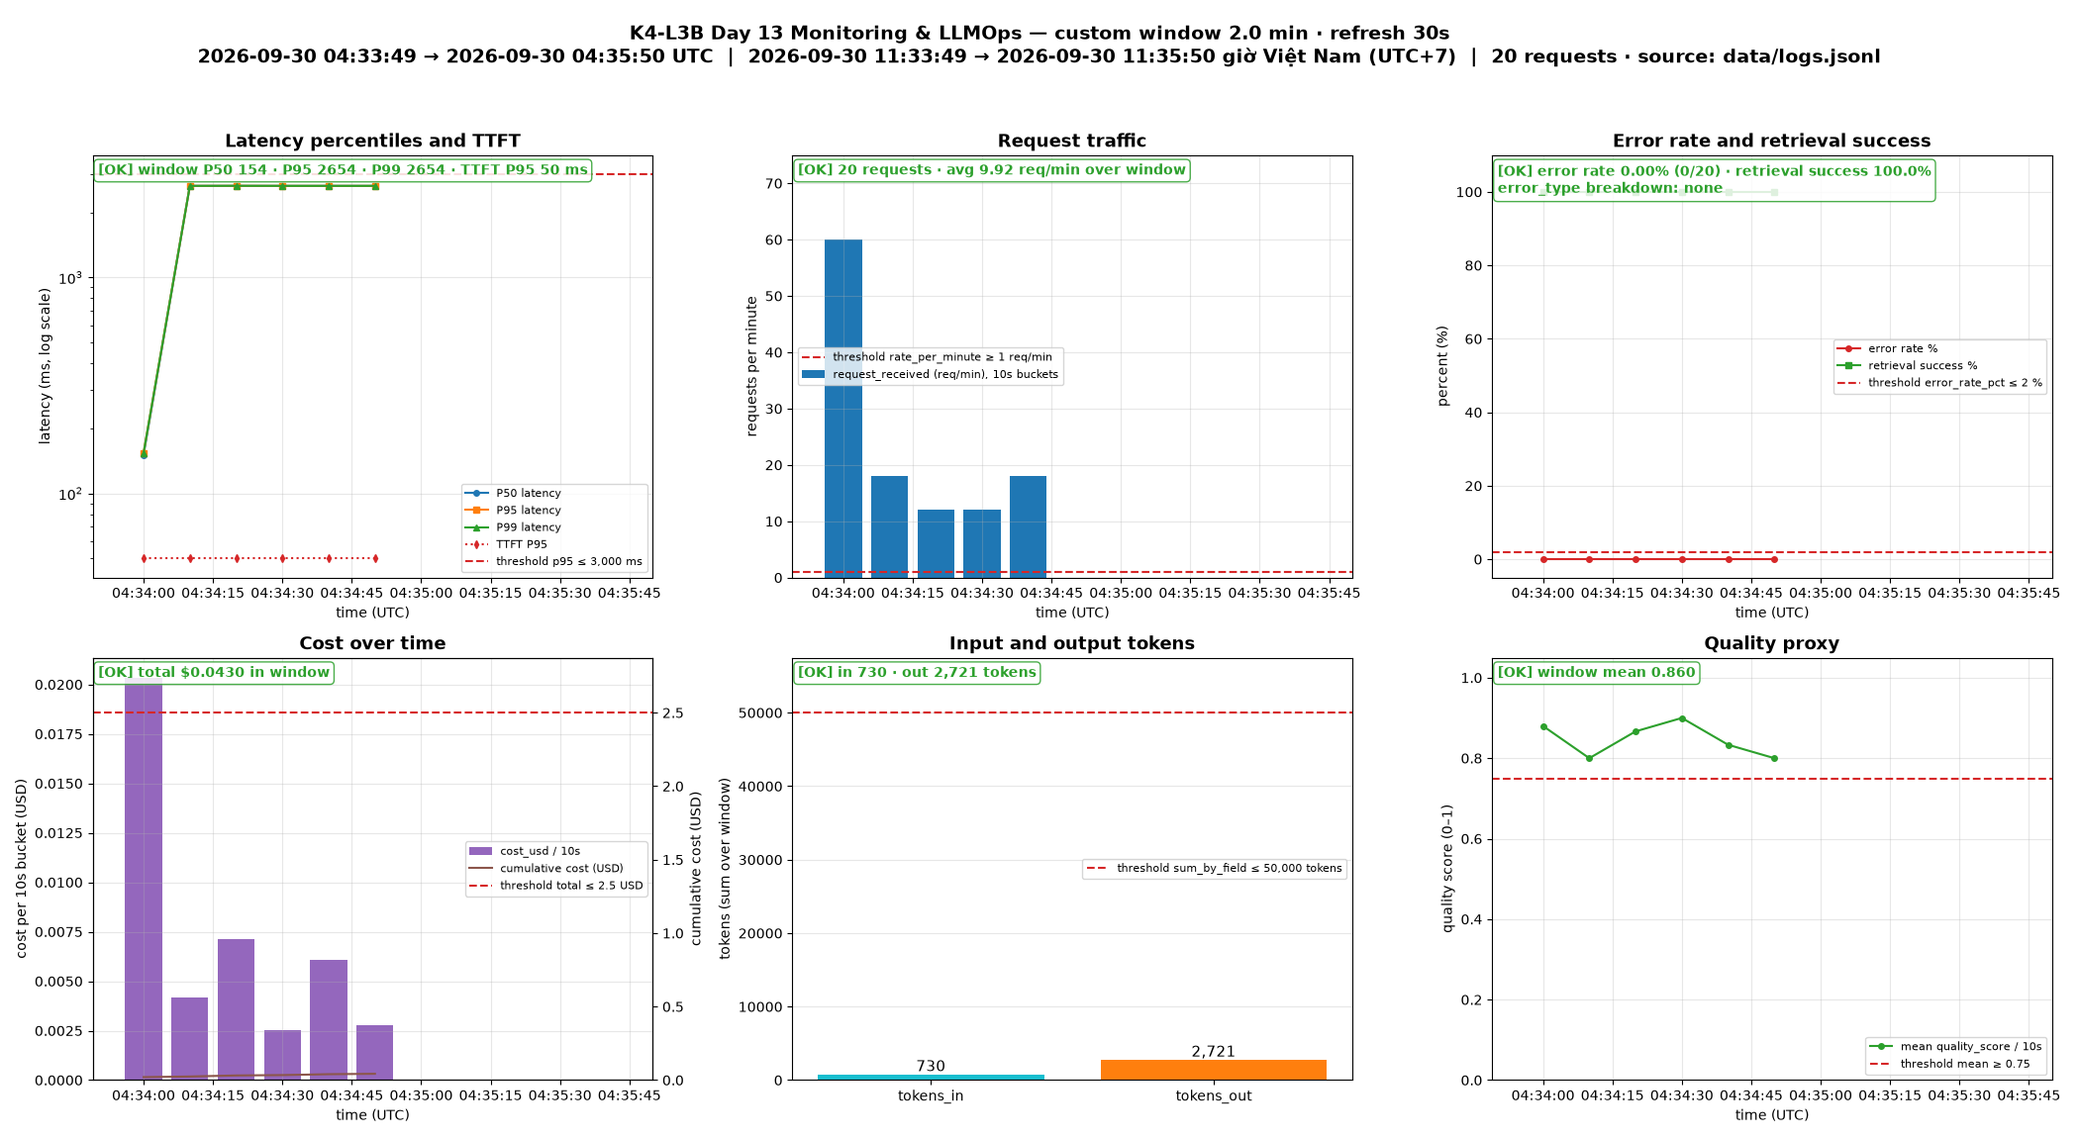
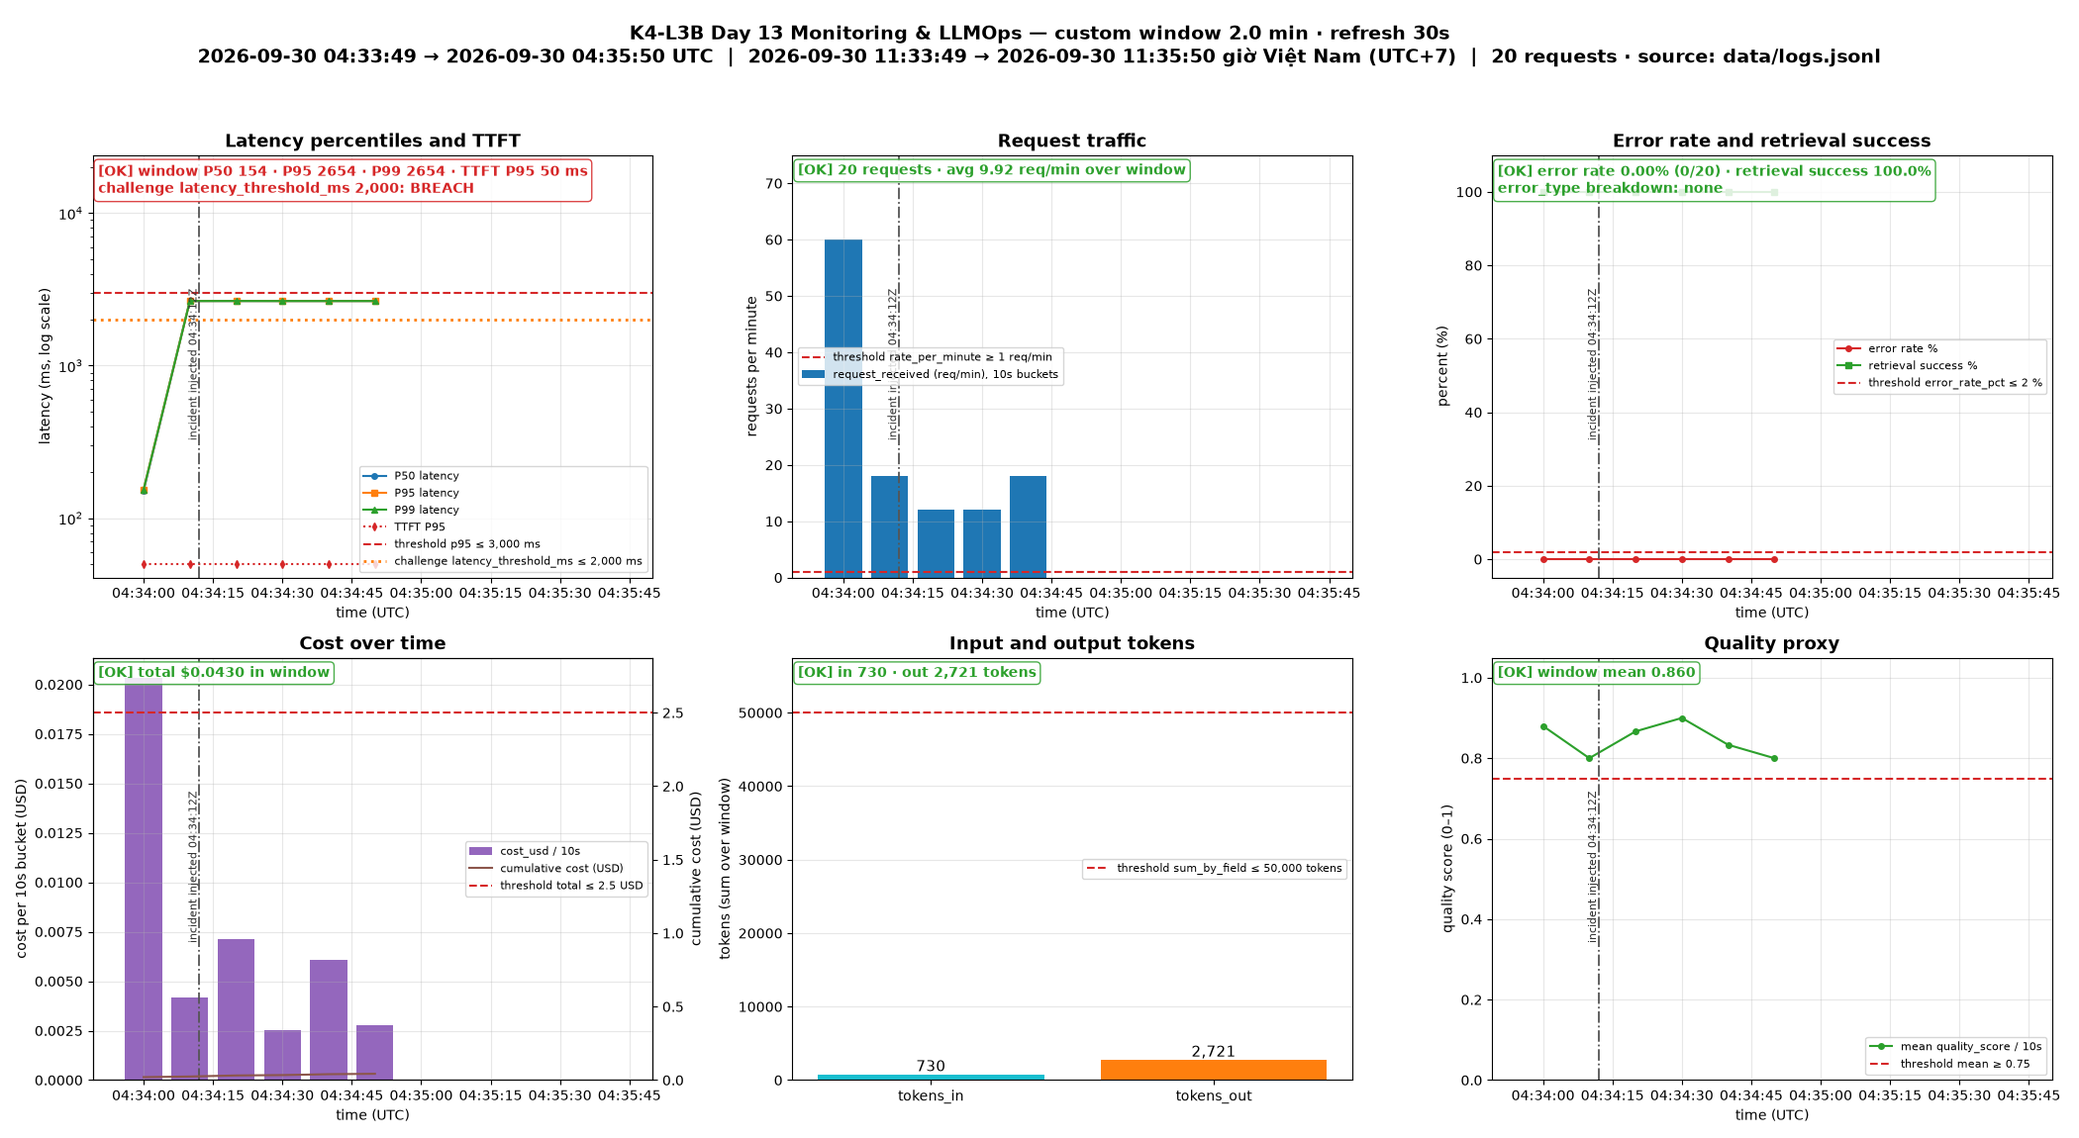
feat(cp3): annotate incident dashboard and amplification root cause

Changed region(s): [[0.031, 0.1217, 0.2786, 0.1826], [0.1548, 0.3957, 0.2786, 0.5174], [0.0619, 0.2435, 0.1857, 0.3957]]

diff --git a/scripts/build_dashboard.py b/scripts/build_dashboard.py
@@ -64,6 +64,24 @@ def filter_range(records: list[dict], start: datetime, end: datetime) -> list[di
     return [r for r in records if start <= r["_ts"] <= end]
 
 
+def parse_marker(value: str) -> tuple[datetime, str]:
+    """TIME=LABEL, e.g. 2026-09-30T04:34:12Z=incident injected."""
+    ts, sep, label = value.partition("=")
+    if not sep or not label:
+        raise argparse.ArgumentTypeError(f"marker must be TIME=LABEL: {value!r}")
+    return parse_cli_time(ts), label
+
+
+def parse_extra_threshold(value: str) -> tuple[str, float, str]:
+    """PANEL=VALUE[:LABEL], e.g. latency=2000:challenge latency_threshold_ms."""
+    panel, sep, rest = value.partition("=")
+    number, _, label = rest.partition(":")
+    try:
+        return panel, float(number), label or "extra threshold"
+    except ValueError as exc:
+        raise argparse.ArgumentTypeError(f"extra threshold must be PANEL=VALUE[:LABEL]: {value!r}") from exc
+
+
 def parse_cli_time(value: str) -> datetime:
     """ISO time with an explicit offset, e.g. 2026-09-30T04:10:00Z or 2026-09-30T11:10:00+07:00."""
     try:
@@ -170,6 +188,8 @@ def load_config(path: Path) -> dict:
 def render(
     cfg: dict, records: list[dict], start: datetime, end: datetime, summary: dict, out: Path,
     window_label: str | None = None,
+    markers: list[tuple[datetime, str]] | None = None,
+    extra_thresholds: list[tuple[str, float, str]] | None = None,
 ) -> None:
     import matplotlib
 
@@ -200,11 +220,21 @@ def render(
         sign = "≤" if th["operator"] == "lte" else "≥"
         ax.axhline(th["value"], color="#d62728", linestyle="--", linewidth=1.5,
                    label=f"threshold {th['aggregation']} {sign} {th['value']:,} {label_unit}")
+        for panel, value, label in extra_thresholds or []:
+            if panel == panel_id:
+                ax.axhline(value, color="#ff7f0e", linestyle=":", linewidth=2,
+                           label=f"{label} {sign} {value:,g} {label_unit}")
 
     def status_text(ax, panel_id: str, text: str) -> None:
         th = panels[panel_id]["threshold"]
         ok = passes(panel_values(summary)[panel_id], th["operator"], th["value"])
         verdict = {True: "OK", False: "BREACH", None: "NO DATA"}[ok]
+        for panel, value, label in extra_thresholds or []:
+            if panel == panel_id:
+                extra_ok = passes(panel_values(summary)[panel_id], th["operator"], value)
+                extra_verdict = {True: "OK", False: "BREACH", None: "NO DATA"}[extra_ok]
+                text += f"\n{label} {value:,g}: {extra_verdict}"
+                ok = ok and extra_ok
         color = {True: "#2ca02c", False: "#d62728", None: "#7f7f7f"}[ok]
         ax.text(0.01, 0.98, f"[{verdict}] {text}", transform=ax.transAxes, va="top", fontsize=10,
                 color=color, fontweight="bold",
@@ -215,6 +245,11 @@ def render(
         ax.xaxis.set_major_formatter(mdates.DateFormatter("%H:%M" + (":%S" if secs < 60 else ""), tz=timezone.utc))
         ax.set_xlabel("time (UTC)")
         ax.grid(alpha=0.3)
+        for when, label in markers or []:
+            if start <= when <= end:
+                ax.axvline(when, color="#555555", linestyle="-.", linewidth=1.3)
+                ax.text(when, 0.5, f" {label} {when:%H:%M:%S}Z", transform=ax.get_xaxis_transform(),
+                        rotation=90, va="center", ha="right", fontsize=8, color="#333333")
 
     # 1. Latency
     ax = axes[0][0]
@@ -225,6 +260,9 @@ def render(
     ax.plot(xs, [percentile([r["ttft_ms"] for r in resp[b]], 95) for b in xs], ":d", ms=4, label="TTFT P95")
     threshold_line(ax, "latency", "ms")
     ax.set_yscale("log")
+    # Headroom above the highest line keeps the status box from hiding the data.
+    top = max([panels["latency"]["threshold"]["value"]] + [r["latency_ms"] for b in xs for r in resp[b]])
+    ax.set_ylim(top=top * 8)
     ax.set_ylabel("latency (ms, log scale)")
     status_text(ax, "latency", f"window P50 {summary['p50']:.0f} · P95 {summary['p95']:.0f} · "
                 f"P99 {summary['p99']:.0f} · TTFT P95 {summary['ttft_p95']:.0f} ms")
@@ -347,6 +385,8 @@ def print_summary(cfg: dict, summary: dict, start: datetime, end: datetime) -> N
 def build_once(
     config: Path, logs: Path, output: Path, now: bool,
     start: datetime | None = None, end: datetime | None = None,
+    markers: list[tuple[datetime, str]] | None = None,
+    extra_thresholds: list[tuple[str, float, str]] | None = None,
 ) -> dict:
     cfg = load_config(config)
     records = load_records(logs)
@@ -364,8 +404,19 @@ def build_once(
     else:
         window, start, end = filter_window(records, minutes, datetime.now(timezone.utc) if now else None)
     summary = summarize(window, minutes)
-    render(cfg, window, start, end, summary, output, window_label)
+    unknown = {panel for panel, _, _ in extra_thresholds or []} - set(cfg["panels_by_id"])
+    if unknown:
+        raise SystemExit(f"--extra-threshold: unknown panel(s) {sorted(unknown)}")
+    render(cfg, window, start, end, summary, output, window_label, markers, extra_thresholds)
     print_summary(cfg, summary, start, end)
+    values = panel_values(summary)
+    for panel, value, label in extra_thresholds or []:
+        op = cfg["panels_by_id"][panel]["threshold"]["operator"]
+        ok = passes(values[panel], op, value)
+        print(f"extra     {panel}: {label} {'<=' if op == 'lte' else '>='} {value:,g} → "
+              f"{ {True: 'OK', False: 'BREACH', None: 'NO DATA'}[ok]} (value {values[panel]})")
+    for when, label in markers or []:
+        print(f"marker    {when:%Y-%m-%d %H:%M:%S}Z ({when.astimezone(VN_TZ):%H:%M:%S} UTC+7) {label}")
     print(f"saved {output}")
     return summary
 
@@ -381,16 +432,22 @@ def main() -> None:
                         help="window start, ISO with offset (...Z for UTC or ...+07:00 for Vietnam time)")
     parser.add_argument("--end", type=parse_cli_time,
                         help="window end, ISO with offset; defaults to start + time_range_minutes")
+    parser.add_argument("--marker", type=parse_marker, action="append", default=[],
+                        help="vertical event line TIME=LABEL (repeatable)")
+    parser.add_argument("--extra-threshold", type=parse_extra_threshold, action="append", default=[],
+                        help="additional threshold line PANEL=VALUE[:LABEL] (repeatable)")
     parser.add_argument("--now", action="store_true", help="end the window at the current time instead of the newest record")
     parser.add_argument("--watch", action="store_true", help="re-render every refresh_seconds")
     args = parser.parse_args()
 
-    build_once(args.config, args.logs, args.output, args.now, args.start, args.end)
+    build_once(args.config, args.logs, args.output, args.now, args.start, args.end,
+                   args.marker, args.extra_threshold)
     if args.watch:
         refresh = load_config(args.config)["refresh_seconds"]
         while True:
             time.sleep(refresh)
-            build_once(args.config, args.logs, args.output, args.now, args.start, args.end)
+            build_once(args.config, args.logs, args.output, args.now, args.start, args.end,
+                   args.marker, args.extra_threshold)
 
 
 if __name__ == "__main__":

diff --git a/tests/test_build_dashboard.py b/tests/test_build_dashboard.py
@@ -106,3 +106,28 @@ def test_short_windows_use_10s_buckets_including_first_partial_bucket() -> None:
     assert dash.bucket_seconds_for(start, start.replace(hour=5, minute=34)) == 60
     assert buckets[0] == datetime(2026, 9, 30, 4, 33, 40, tzinfo=timezone.utc)
     assert buckets[-1] == datetime(2026, 9, 30, 4, 35, 50, tzinfo=timezone.utc)
+
+
+def test_marker_and_extra_threshold_parsing(tmp_path: Path) -> None:
+    when, label = dash.parse_marker("2026-09-30T11:34:12+07:00=incident injected")
+    assert when == datetime(2026, 9, 30, 4, 34, 12, tzinfo=timezone.utc)
+    assert label == "incident injected"
+    assert dash.parse_extra_threshold("latency=2000:challenge") == ("latency", 2000.0, "challenge")
+    assert dash.parse_extra_threshold("latency=2000") == ("latency", 2000.0, "extra threshold")
+
+    import argparse
+    import pytest
+
+    with pytest.raises(argparse.ArgumentTypeError):
+        dash.parse_marker("2026-09-30T04:34:12Z")
+    with pytest.raises(argparse.ArgumentTypeError):
+        dash.parse_extra_threshold("latency=fast")
+
+    out = tmp_path / "dash.png"
+    summary = dash.build_once(
+        REPO_ROOT / "config" / "dashboard.yaml", _write_logs(tmp_path, _fake_rows()), out, now=False,
+        start=datetime(2026, 9, 30, 4, 0, tzinfo=timezone.utc), end=datetime(2026, 9, 30, 4, 5, tzinfo=timezone.utc),
+        markers=[(when.replace(minute=2), "incident injected")], extra_thresholds=[("latency", 2000.0, "challenge")],
+    )
+    assert out.stat().st_size > 0
+    assert summary["p95"] == 4000.0  # above the 2000 ms extra threshold

diff --git a/submission/REPORT.md b/submission/REPORT.md
@@ -76,12 +76,12 @@
 
 - **Challenge ID:** `day13-k4-l3b-monitoring-llmops-v1` (Cohort K4)
 - **Khoảng thời gian điều tra:** 2026-09-30 04:33:49Z → 04:37:38Z (11:33:49 → 11:37:38 giờ VN). Trước sự cố: 04:33:49–04:34:12Z (11:33:49–11:34:12). Inject lúc 04:34:12Z (11:34:12). Trong sự cố: 04:34:12–04:34:51Z (11:34:12–11:34:51). Fix lúc 04:36:36Z (11:36:36). Kiểm tra hồi phục: 04:36:36–04:37:38Z (11:36:36–11:37:38).
-- **Triệu chứng từ metrics:** Chỉ có latency thay đổi. `latency_ms` P50/P95/P99 đi từ 151/154/154 ms lên 2652/2654/2654 ms (×17), bắt đầu từ bucket 04:34:10Z. Latency phía người dùng (client trong load_test) từ P50 775 ms lên 13,279 ms, max 13,283 ms. Các tín hiệu còn lại gần như không đổi: TTFT P95 50→50 ms, error 0%→0% (0 `request_failed`, 10/10 HTTP 200), retrieval success 100%→100%, tokens_out trung bình 128→144, cost/request $0.00203→$0.00227, quality 0.88→0.84. Không panel nào vượt threshold, vì P95 server 2654 ms < 3000, nhưng client latency vượt xa SLO 3000 ms ([12](evidence/12-incident-metric.png), [bảng](evidence/12-incident-metric.txt)).
+- **Triệu chứng từ metrics:** Chỉ có latency thay đổi. `latency_ms` P50/P95/P99 đi từ 151/154/154 ms lên 2652/2654/2654 ms (×17), bắt đầu từ bucket 04:34:10Z. Latency phía người dùng (client trong load_test) từ P50 775 ms lên 13,279 ms, max 13,283 ms. Các tín hiệu còn lại gần như không đổi: TTFT P95 50→50 ms, error 0%→0% (0 `request_failed`, 10/10 HTTP 200), retrieval success 100%→100%, tokens_out trung bình 128→144, cost/request $0.00203→$0.00227, quality 0.88→0.84. Không panel nào vượt threshold, vì P95 server 2654 ms < 3000, nhưng client latency vượt xa SLO 3000 ms ([12](evidence/12-incident-metric.png), [bảng](evidence/12-incident-metric.txt)). Đối chiếu với challenge (chỉ đọc 2 trường `latency_threshold_ms = 2000` và `affected_feature = monitoring`): P95 server 2654 ms **vượt ngưỡng challenge 2000 ms**, dù vẫn dưới ngưỡng dashboard 3000 ms. Cả 10 request chậm đều có `feature=monitoring`. Lần chạy lại cùng feature `monitoring` sau fix chỉ còn 152 ms, nên nguyên nhân là sự cố chứ không phải bản thân feature. Ảnh 12/12b có đường dọc đánh dấu "incident injected" (04:34:12Z) và "incident disabled" (04:36:36Z), cùng đường ngưỡng challenge 2000 ms (vẽ bằng `--marker` và `--extra-threshold`).
 - **Log line và correlation ID liên quan:** Lọc `response_sent` có `latency_ms > 1000` trong khoảng sự cố: 10/10 bản ghi (trước sự cố 0/10). Request đại diện: `correlation_id=req-fdbdf646`, `response_sent` ts=2026-09-30T04:34:47.793Z, `latency_ms=2652`, `ttft_ms=50`, `tokens_in=37`, `tokens_out=129`, `cost_usd=0.002046`, `tool_success=true`, feature `monitoring`; client chờ 13,279.5 ms. Để so sánh, `req-24c7372a` (cùng câu hỏi, trước sự cố) có `latency_ms=154`. Timeline log cho thấy mỗi `request_received` chỉ bắt đầu sau `response_sent` của request trước, nên dù gửi song song 5 request, request thứ 5 phải chờ 4 × 2.65 s ([13](evidence/13-incident-log.txt)). [Ảnh 13](evidence/13-incident-log.png) cho thấy mỗi `request_received` chỉ bắt đầu khoảng 0–1 ms sau `response_sent` của request trước (ví dụ 04:34:16.180 → 04:34:16.181), dù load test gửi song song 5 request. Đây là bằng chứng server xử lý tuần tự.
 - **Trace ID và span gây ảnh hưởng:** Trace `b12ade0840eda52e75d4190081c8b969` (`req-fdbdf646`): root `lab-agent-run` 2.653 s = `retrieval` **2.501 s** + `llm-generation` 0.151 s. Trace bình thường `0fa016398add0401bc7419d064ecc21d` (`req-24c7372a`): `retrieval` 0.000 s, `llm-generation` 0.151 s. Span gây ảnh hưởng là `retrieval` (RETRIEVER): chậm ở 10/10 trace trong sự cố, chiếm khoảng 94% latency, level DEFAULT, không có status_message, doc_count=1. Generation giữ nguyên latency, usage, cost và prompt v1 ([14](evidence/14-incident-trace.txt)).
-- **Root cause:** Metric latency P95 tăng từ 154 lên 2654 ms (client từ 775 lên 13,279 ms) trong khi error, tokens và TTFT không đổi. Log `response_sent` của `req-fdbdf646` có `latency_ms=2652` (10/10 request trong khoảng). Trace `b12ade0840eda52e75d4190081c8b969` cho thấy span `retrieval` mất 2.501 s (bình thường 0.000 s), còn `llm-generation` không đổi. Vì vậy nguyên nhân là bước retrieval (RAG) chậm thêm khoảng 2.5 s mỗi request; nó chậm chứ không lỗi, nên error rate vẫn 0%. Độ chậm này bị khuếch đại thành 8–13 s phía người dùng vì server xử lý request tuần tự.
+- **Root cause:** Metric latency P95 tăng từ 154 lên 2654 ms (client từ 775 lên 13,279 ms) trong khi error, tokens và TTFT không đổi. Log `response_sent` của `req-fdbdf646` có `latency_ms=2652` (10/10 request trong khoảng). Trace `b12ade0840eda52e75d4190081c8b969` cho thấy span `retrieval` mất 2.501 s (bình thường 0.000 s), còn `llm-generation` không đổi. Vì vậy nguyên nhân là bước retrieval (RAG) chậm thêm khoảng 2.5 s mỗi request; nó chậm chứ không lỗi, nên error rate vẫn 0%. Độ chậm này bị khuếch đại thành 8–13 s phía người dùng vì server xử lý request tuần tự. Cơ chế khuếch đại: `chat()` trong `app/main.py` là `async def` nhưng gọi `agent.run()` đồng bộ, trong đó retrieval chạy `time.sleep` (blocking). Vì vậy event loop bị chặn suốt 2.65 s mỗi request, và các request song song bị xử lý tuần tự. Điều này khớp với timeline log (request sau bắt đầu 0–1 ms sau khi request trước xong) và client latency bằng bội số của 2.65 s.
 - **Fix action:** Chạy `python scripts/inject_incident.py --disable` lúc 04:36:36Z (11:36:36 VN), `/health` báo mọi incident false. Chạy lại `load_test.py --challenge --concurrency 5` với cùng input: 5/5 HTTP 200, `latency_ms` P95 2654→152 ms, client P50 13,279→622 ms (max 774 ms), span `retrieval` 2.501→0.000 s (trace `69dba90203179cafee24db8146150550`, `req-b374e58a`), error vẫn 0% ([12b](evidence/12b-incident-recovery.png)).
-- **Preventive measure:** (1) **Alert:** với rule hiện tại, `HighLatencyP95` (docs/alerts.md#alert-1) **không bắn**, vì P95 server là 2654 ms < 3000 và sự cố chỉ kéo dài khoảng 40 giây, ngắn hơn duration 5m. Nếu sự cố kéo dài với cùng mức chậm, alert vẫn không bắn, vì `latency_ms` không tính thời gian chờ hàng đợi. Đề xuất: đo latency ở tầng middleware hoặc edge (header `x-response-time-ms` hay tại load balancer, gồm cả thời gian chờ) để đưa vào `HighLatencyP95`, và thêm rule `p95(retrieval span) > 1000ms for 2m` (warning), dẫn tới runbook alert-1 với bước "so span retrieval với llm-generation". Khi có latency phía người dùng, sự cố này (13 s > 3000 ms) sẽ bắn sau 5 phút theo rule hiện có, hoặc sau 2 phút với rule retrieval. (2) **Kỹ thuật:** đặt timeout cho retrieval (ví dụ 1 s) và fallback context ("No domain document matched…") kèm circuit breaker, để vector store chậm không kéo dài request; chạy phần xử lý blocking của `/chat` trong threadpool hoặc worker, để một request chậm không chặn các request khác (evidence: timeline tuần tự 2.65 s mỗi request). Thêm regression test: giả lập retrieval chậm, gửi 5 request song song, và assert latency client ≤ 1.5 × latency của một request.
+- **Preventive measure:** (1) **Alert:** với rule hiện tại, `HighLatencyP95` (docs/alerts.md#alert-1) **không bắn**, vì P95 server là 2654 ms < 3000 và sự cố chỉ kéo dài khoảng 40 giây, ngắn hơn duration 5m. Nếu sự cố kéo dài với cùng mức chậm, alert vẫn không bắn, vì `latency_ms` không tính thời gian chờ hàng đợi. Đề xuất: đo latency ở tầng middleware hoặc edge (header `x-response-time-ms` hay tại load balancer, gồm cả thời gian chờ) để đưa vào `HighLatencyP95`, và thêm rule `p95(retrieval span) > 1000ms for 2m` (warning), dẫn tới runbook alert-1 với bước "so span retrieval với llm-generation". Khi có latency phía người dùng, sự cố này (13 s > 3000 ms) sẽ bắn sau 5 phút theo rule hiện có, hoặc sau 2 phút với rule retrieval. (2) **Kỹ thuật:** đặt timeout cho retrieval (ví dụ 1 s) và fallback context ("No domain document matched…") kèm circuit breaker, để vector store chậm không kéo dài request; chạy phần xử lý blocking của `/chat` trong threadpool hoặc worker, để một request chậm không chặn các request khác (evidence: timeline tuần tự 2.65 s mỗi request). Thêm regression test: giả lập retrieval chậm, gửi 5 request song song, và assert latency client ≤ 1.5 × latency của một request. (3) **Khuếch đại:** đổi `chat` thành `def` (FastAPI tự chạy trong threadpool) hoặc bọc `await run_in_threadpool(agent.run, ...)`, để một request chậm không chặn event loop. Việc này cần sửa `app/`, nên tôi chỉ đề xuất, chưa áp dụng. Ngoài ra, nên đặt ngưỡng alert latency cho feature `monitoring` theo ngưỡng challenge 2000 ms.
 
 > Gợi ý cách viết ngắn, không thay cho evidence thực tế: "Metric cho thấy `[latency/error/cost/quality]` bất thường trong `[khoảng thời gian]`. Log line `[event]` có `correlation_id=[...]` đại diện cho request bị ảnh hưởng. Trace cùng `correlation_id` cho thấy span `[retrieval/generation/prompt/tool]` có dấu hiệu `[chậm/lỗi/token tăng]`. Root cause là `[nguyên nhân suy ra từ evidence]`. Fix action là `[hành động khôi phục]`; preventive measure là `[alert/runbook/test/guardrail để ngăn tái diễn]`."
 
